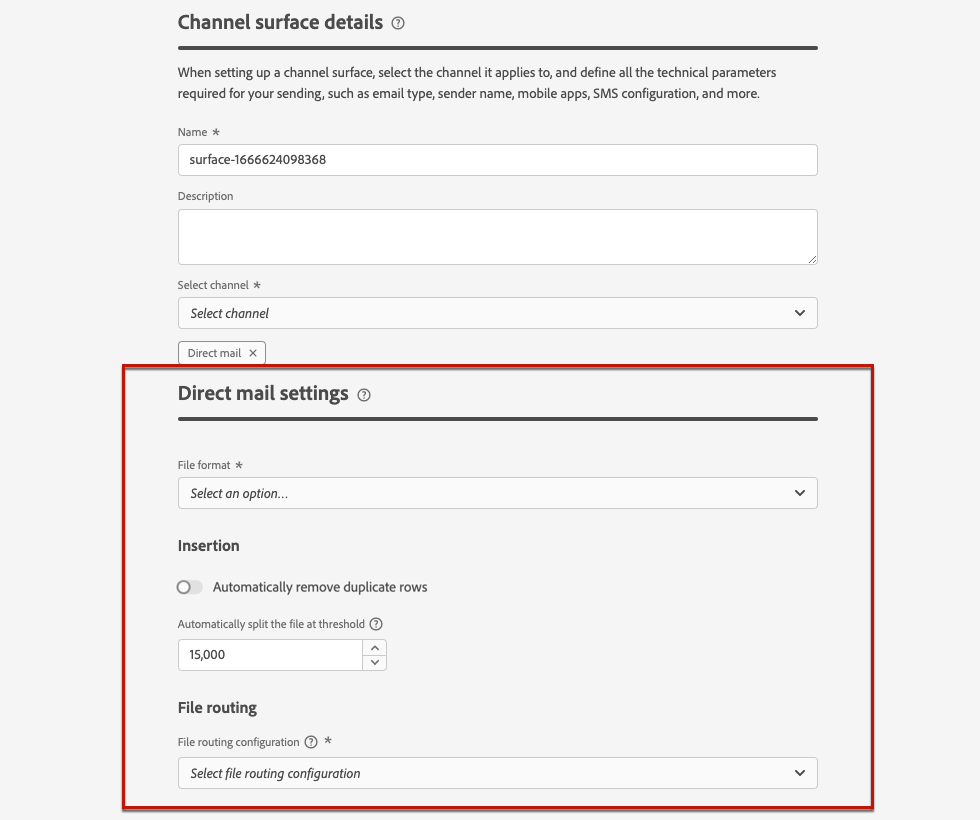
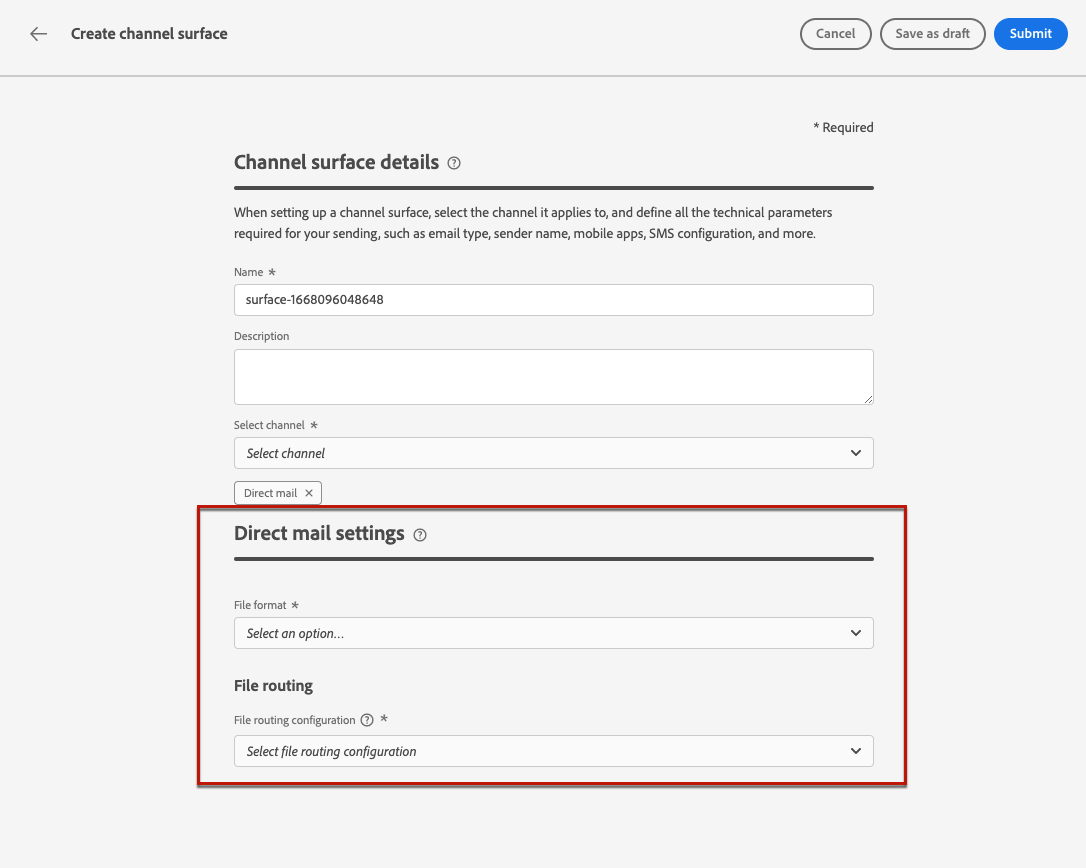
DM config UI updates

Changed region(s): [[0.1224, 0.3049, 0.9184, 1.0], [0.0612, 0.0, 1.0, 0.1524], [0.1837, 0.1524, 0.7959, 0.2744]]

diff --git a/help/using/configuration/direct-mail-configuration.md b/help/using/configuration/direct-mail-configuration.md
@@ -124,21 +124,11 @@ A direct mail surface must also include the file routing configuration which def
 
     ![](assets/surface-direct-mail-settings.png)
 
+    <!--![](assets/surface-direct-mail-settings-with-insertion.png)-->
+
 1. Select the file format: **[!UICONTROL CSV]** or **[!UICONTROL Text delimited]**.
 
-1. In the **[!UICONTROL Insertion]** section, you can choose to automatically remove duplicate rows.
-
-1. Define the maximum number of records (i.e. rows) for each file containing profile data. After the specified threshold is reached, another file will be created for the remaining records.
-
-    ![](assets/surface-direct-mail-split.png)
-
-    For example, if there are 100,000 records in the file and the threshold limit is set to 60,000, the records will be split into two files. The first file will contain 60,000 rows, and the second file will contain the remaining 40,000 rows.
-
-    >[!NOTE]
-    >
-    >You can set any number between 1 and 200,000 records, meaning each file must contain at least 1 row and no more than 200,000 rows.
-
-1. Finally, select the **[!UICONTROL File routing configuration]** amongst the ones that you created. This defines where the file will be exported for your direct mail provider to use.
+1. Select the **[!UICONTROL File routing configuration]** amongst the ones that you created. This defines where the file will be exported for your direct mail provider to use.
 
     >[!CAUTION]
     >
@@ -146,6 +136,29 @@ A direct mail surface must also include the file routing configuration which def
 
     ![](assets/surface-direct-mail-file-routing.png)
 
+    <!--![](assets/surface-direct-mail-file-routing-with-insertion.png)-->
+
 1. Submit the direct mail surface.
 
 You can now [create a direct mail message](../messages/create-direct-mail.md) inside a campaign. Once the campaign is started, the file containing the targeted audience data will automatically be exported to the server that you defined. The direct mail provider will then be able to retrieve that file and proceed with the direct mail delivery.
+
+>[!NOTE]
+>
+>Duplicate rows will be automatically removed.
+>
+>If the maximum number of records (i.e. rows) for each file containing profile data is too high, another file will be automatically created for the remaining records.
+
+<!--
+    In the **[!UICONTROL Insertion]** section, you can choose to automatically remove duplicate rows.
+
+    Define the maximum number of records (i.e. rows) for each file containing profile data. After the specified threshold is reached, another file will be created for the remaining records.
+
+    ![](assets/surface-direct-mail-split.png)
+
+    For example, if there are 100,000 records in the file and the threshold limit is set to 60,000, the records will be split into two files. The first file will contain 60,000 rows, and the second file will contain the remaining 40,000 rows.
+
+    >[!NOTE]
+    >
+    >NOTE You can set any number between 1 and 200,000 records, meaning each file must contain at least 1 row and no more than 200,000 rows.
+
+-->
